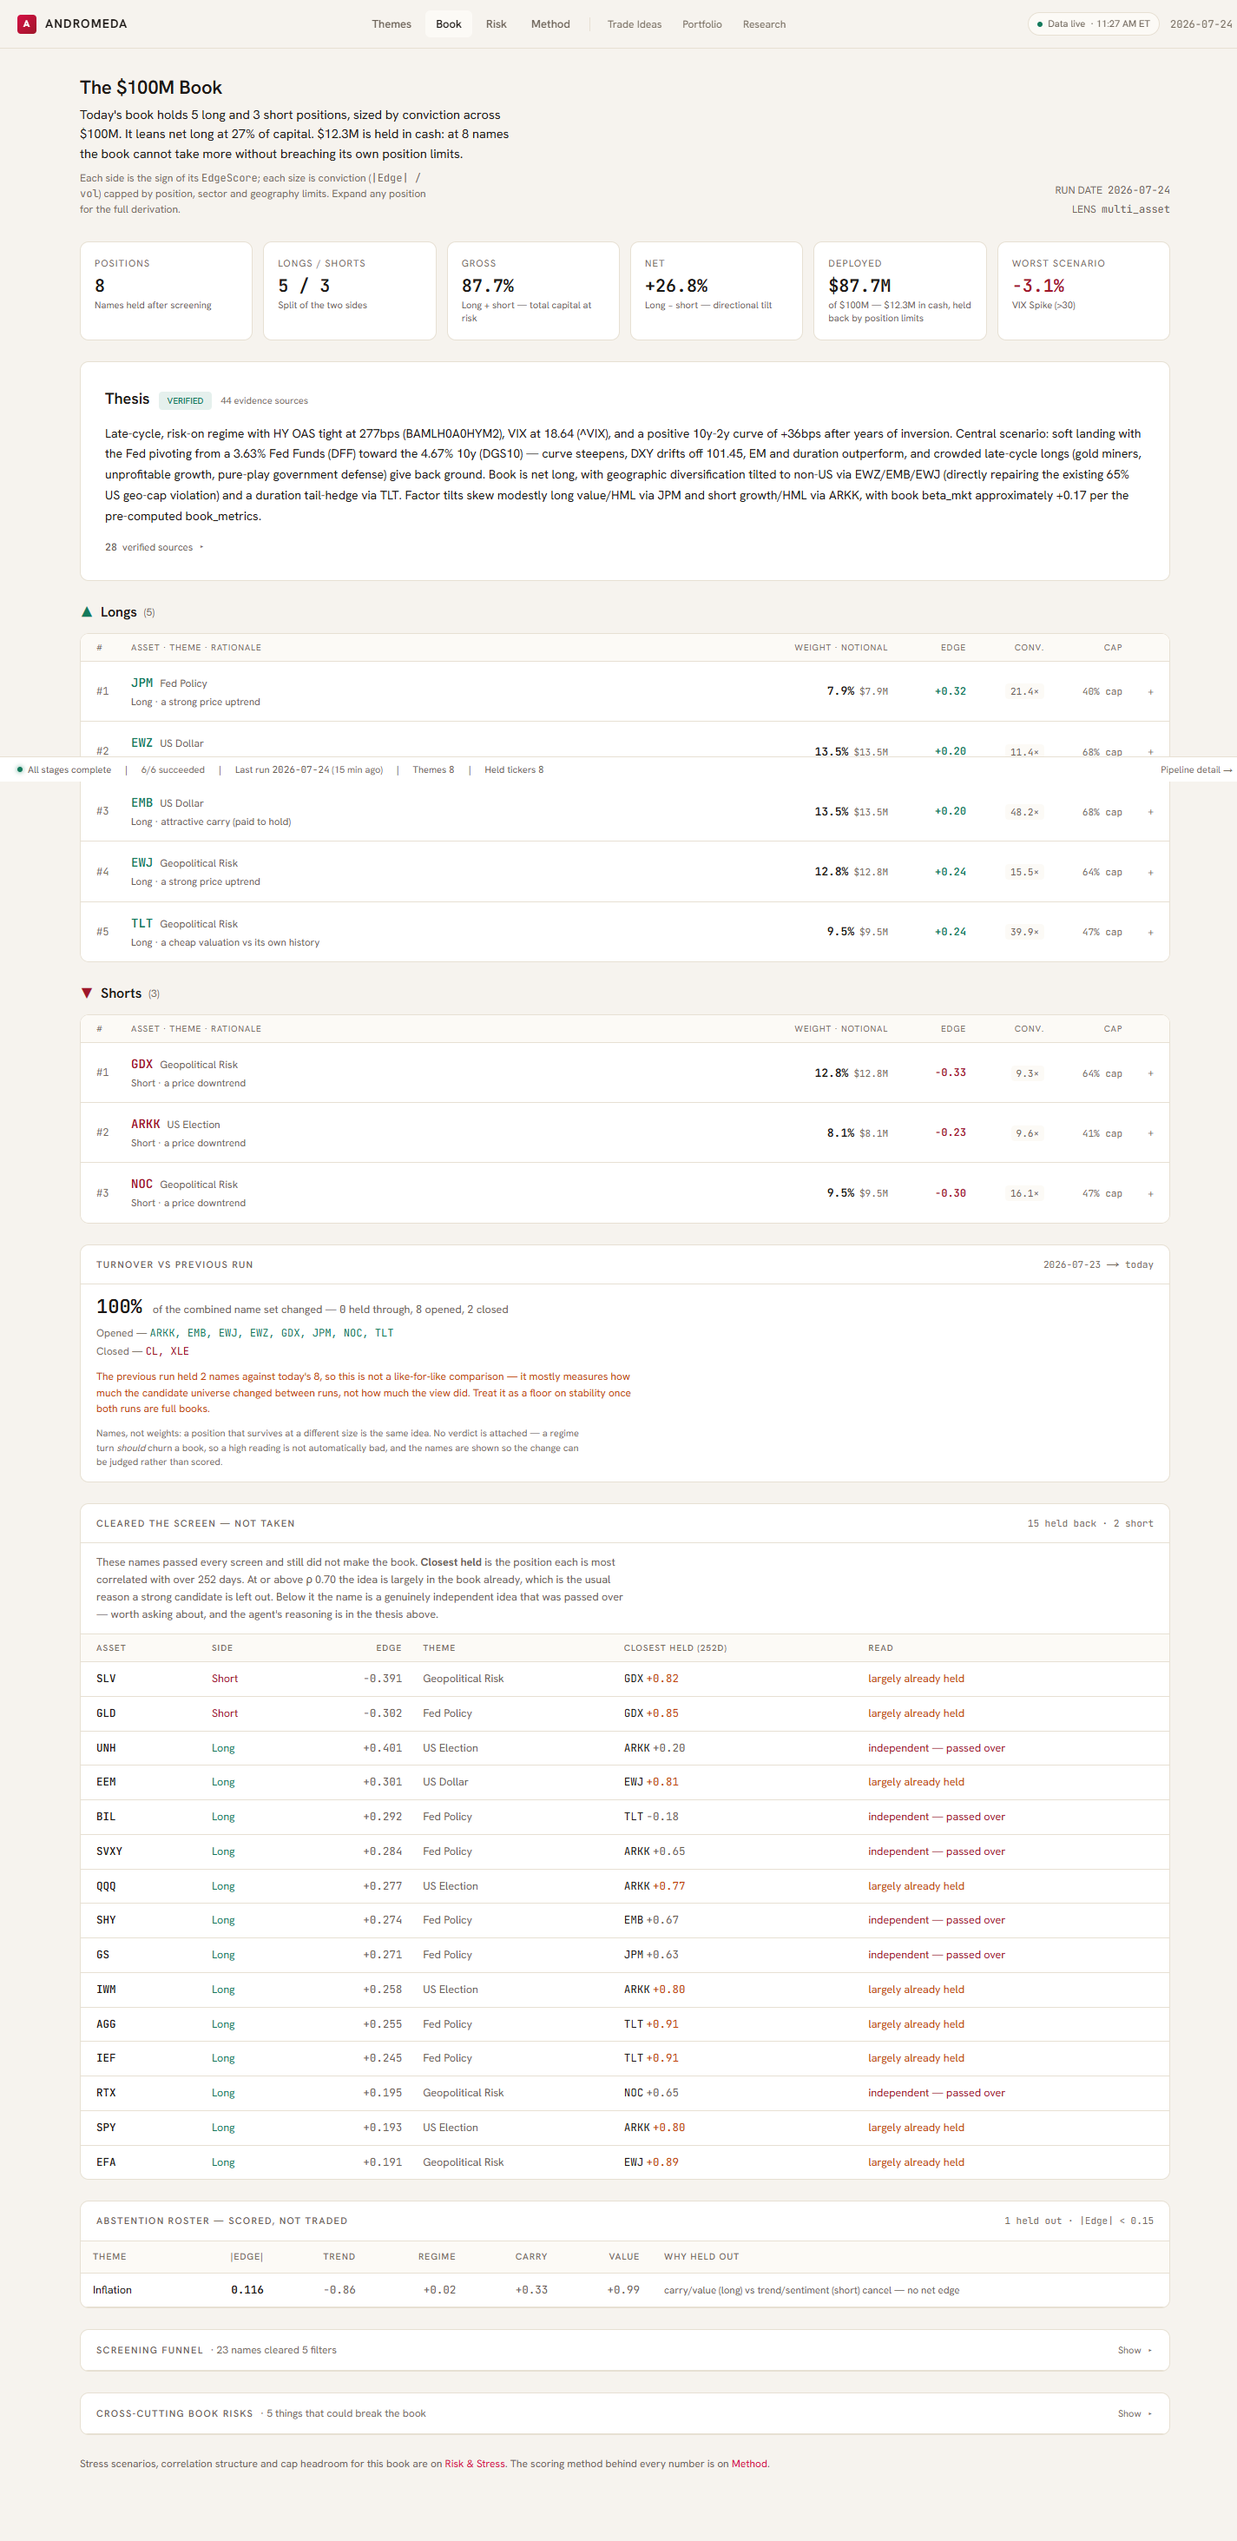
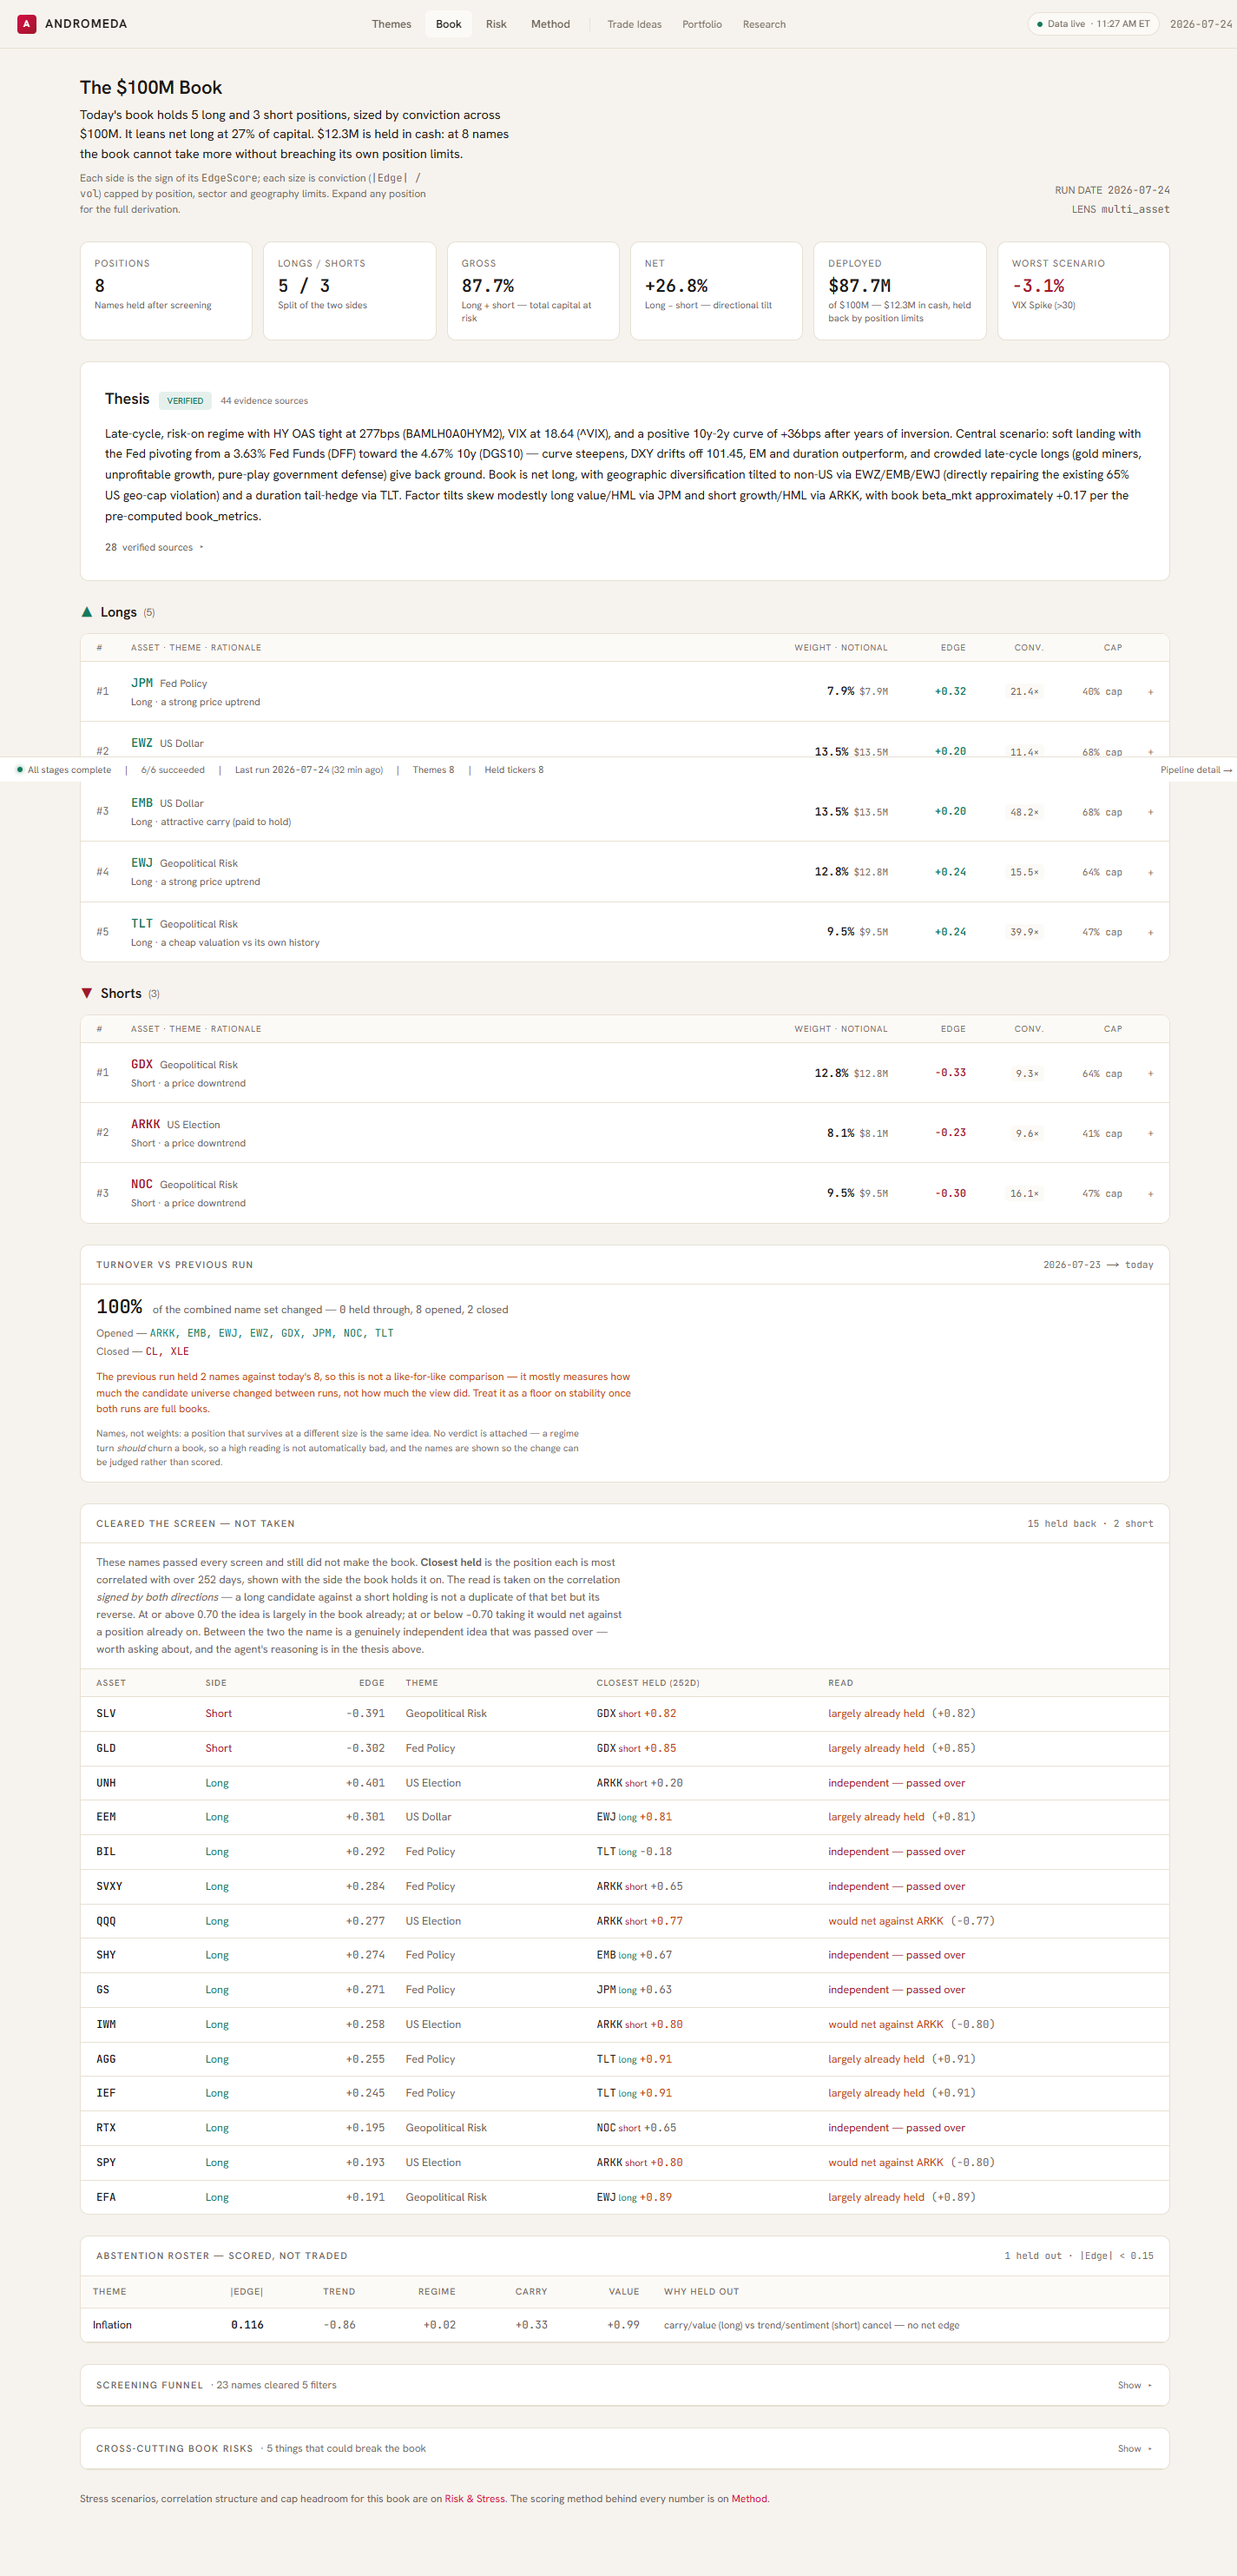
docs: record the inverted overlap column and the /risk mobile clipping
ARCHITECTURE feature checklist and PROGRESS both gain the two defects this
iteration found by reading the deployed page — the direction-blind "largely
already held" label on /book, and /risk cutting off its own utilisation
percentages at 375px. Captures: book-turnover-desktop (both fixes at 1440)
and risk-caps-mobile (the two-column cap row).

diff --git a/PROGRESS.md b/PROGRESS.md
@@ -34,6 +34,8 @@ docs/
 
 | Date | Entry |
 |---|---|
+| 2026-07-24 | **The column that explains omissions was saying the opposite of the truth on three of fifteen rows.** Reading the deployed page after the turnover panel shipped: `ClearedNotTaken` thresholds each candidate against its closest held position on the **raw price correlation**, ignoring which side the book holds it on. The book is **short ARKK**. QQQ (rho +0.77), IWM (+0.80) and SPY (+0.80) are all LONG candidates against it, and every one read *"largely already held"* — a long SPY against a short ARKK is nearer the **reverse** of that bet than a duplicate of it. `classifyOverlap` now signs by both directions before thresholding (`aligned = rho x sign(candidate) x sign(held)`), which also gives the panel a category it could not previously express: **"would net against ARKK"** — a *better* reason to pass a name over than the one the page had been giving. The held side prints beside the ticker now (`GDX short +0.82`), because the same rho reads as a duplicate against one side and a hedge against the other. The backend is deliberately unchanged: `candidate_book_correlation` returns an unsigned price correlation because it is a measurement, and `max|rho|` picks the same holding either way — signing cannot change a magnitude. Its docstring states that contract now. **The same error `abs(corr)` made inside HypeScore and [ADR-0042](docs/adrs/0042-absolute-hype-subscores.md) removed: discarding the sign that decides the meaning.** Found by reading two numbers on one page that could not both be true — no test would have caught it, because the old code computed exactly what it meant to. 462 tests green. [ADR-0045](docs/adrs/0045-turnover-on-names-without-a-verdict.md). |
+| 2026-07-24 | **The 375px pass found `/risk` clipping, not scrolling.** Cards set `overflow-x: hidden`, so anything wider than the card body is cut off **with nothing to reveal it** — strictly worse than a scrollbar, because a scrollbar at least says something is there. **Cap utilisation lost ~76px off its right edge**: its row grid needs 96 + 120 + ~110px plus gaps inside a 260px body, so the `(68%)` utilisation reading — the number that panel exists to show — was simply gone on a phone. Below `sm` the row is now two columns (ticker and numbers on one line, bar full-width beneath) and unchanged at three above; verified at both widths on the deployed site. Two smaller cuts from the same cause: source identifiers like `research_recommendations.correlation_pairs` have no space to break on and now wrap with `overflow-wrap: anywhere`, and `.card-header` gains `flex-wrap` so a long right-hand meta string drops under the title. **Zero page-level horizontal scroll before and after** — this never showed as a scrollbar, only as missing text, which is why an audit checking `scrollWidth > clientWidth` alone would have passed it. `/`, `/book`, `/risk` and `/method` are all clean at 375px and 1440px with zero console errors. |
 | 2026-07-24 | **The site now answers "would you get the same answer tomorrow?" — and the first thing it says is that today's answer is not yet trustworthy.** That question is the first anyone asks of a systematic book and nothing here answered it; the data was always present (`research_recommendations` keeps one row per `run_date`) but no code had ever compared two rows, so it could only be answered by hand-diffing the database. `BookTurnover` measures **names, not weights** — Jaccard distance over the held name sets, union as the denominator so closing a name counts as much as opening one. A position that survives at a different size is the same idea; weight drift is real but folding it in is what makes the primary number unreadable. **No verdict is attached**: a regime turn *should* churn a book, so "low = stable = good" would be a verdict about the market dressed as one about the process. The three lists (held through / opened / closed) are printed so the change can be judged. **The reading today is 100%, and saying only that would have been a lie by omission** — the live book holds 8 names (JPM, EWZ, EMB, EWJ, TLT long; GDX, ARKK, NOC short) and the previous run holds **2** (XLE, CL) from before the universe expanded. `comparabilityCaveat` states the mismatch in warning colour whenever the smaller book is under half the larger: this measures how much the *candidate universe* changed, not how much the *view* did. It will clear itself once two consecutive full runs exist, with no code change. The pure functions live in `frontend/lib/turnover.ts` because the vitest project is `environment: node` with no JSX loader — a function reachable only through a `.tsx` import cannot be tested. 10 tests; `/book` now reads two recommendation rows through a shared `parsePicks()`. [ADR-0045](docs/adrs/0045-turnover-on-names-without-a-verdict.md). |
 | 2026-07-24 | **The reasoning prompt was getting 31 near-identical correlation lines.** Chasing the open Q1 gap — the short side is limited by L5's *selection*, not the universe — I checked what L5 knows when it selects. It **does** receive correlation data (the "choosing blind" hypothesis was wrong), but as one verbose sentence per pair, each ending with the same *"verify this is intentional, not accidental doubling of the same bet"*: **31 of them** on the live 23-name pool. Pairwise is also the wrong shape — nobody reasons about TLT-IEF, TLT-AGG, IEF-AGG and IEF-SHY separately, they reason about **the duration complex**. `correlation_clusters` takes connected components over the positively-correlated pairs, collapsing 31 lines into **four named bets** (`ONE BET: AGG, IEF, SHY, TLT move together — holding several is concentration, not diversification`) plus the strongest pairs for detail. **Inverse pairs are excluded from clusters and reported separately**: a −0.8 correlation is a HEDGE, and folding it into a "these are the same" cluster would invert the meaning — the most damaging thing the section could say; a test pins it. **Not claimed to change the book** — it improves a demonstrably noisy decision input, and whether L5 picks differently is its call, visible in the thesis. Two existing tests asserted exact line counts, pinning the old *shape* rather than the meaning; rewritten to assert properties. 422 tests green. |
 | 2026-07-24 | **The correlation tool disproved the reasoning that motivated it.** The previous entry claimed GDX/GLD being SLV-duplicates was *"exactly why the short side is three independent ideas and not the five Q1 asks for"*. With real correlations rendering, that is wrong: **NOC — a short with edge −0.301 and only +0.20 correlation to anything held — is genuinely INDEPENDENT and was still passed over**, while the book holds just two shorts (ARKK, SLV). **The short side is not capped by redundancy.** Redundancy explains GDX (+0.82) and GLD (+0.84); it does not explain the size of the short side. Why NOC was declined is L5's call, visible in the thesis rather than inferable from the pool, and the panel now says **"independent — passed over"** in red so the case cannot be missed. **Second finding from the same reading:** *"Theme also held?"* read **yes on all sixteen rows** — provably non-discriminating, noise beside a column that separates cleanly — so it is gone along with the `heldThemeIds` prop nothing read. A **Read** column states the consequence instead, thresholded at ρ 0.70, the same `HIGH_CORR_THRESHOLD` `/risk` uses to flag correlated pairs inside the book: one threshold, one meaning. **Every honest measurement this session has cost a claim** — carry's IC, the scenario magnitudes, the theme proxy, and now the short-side ceiling; building the instrument is what makes the earlier assertion checkable. |

diff --git a/ARCHITECTURE.md b/ARCHITECTURE.md
@@ -500,3 +500,5 @@ pytest tests/backend/ -v
 - [x] **Correlation warnings cluster instead of listing every pair** (`correlation_clusters` in `book_metrics.py`) — chasing GOAL.md's open gap (the short side is limited by L5's *selection*, not the universe), I checked what L5 knows when it selects. It **does** receive correlation data — the "choosing blind" hypothesis was wrong — but as **31 near-identical verbose lines** on a 23-name pool, each ending with the same *"verify this is intentional, not accidental doubling of the same bet"*. Pairwise is also the wrong shape: nobody reasons about TLT-IEF, TLT-AGG, IEF-AGG and IEF-SHY separately, they reason about **the duration complex**. Connected components over the positively-correlated pairs turn those 31 lines into four named bets (`ONE BET: AGG, IEF, SHY, TLT …`), plus the strongest pairs for detail. **Inverse pairs are excluded from clusters and reported separately** — a −0.8 correlation is a HEDGE, and folding it into a "these are the same" cluster would invert the meaning; a test pins that. Not claimed to change the book: it improves a demonstrably noisy decision input, and whether L5 selects differently is its call, visible in the thesis.
 - [x] **`/book` says how much of the book changed since the last run** (`frontend/lib/turnover.ts`, `frontend/components/book/BookTurnover.tsx`, [ADR-0045](docs/adrs/0045-turnover-on-names-without-a-verdict.md)) — *"would you get the same answer tomorrow?"* is the first question anyone asks of a systematic book and nothing here answered it. `research_recommendations` has always kept one row per `run_date`; no code had ever compared two. Turnover is **Jaccard distance over the held name sets** — names, not weights, because a position that survives at a different size is the same idea — with the **union** as denominator so a closed name counts as much as an opened one. **No verdict is attached**: a regime turn *should* churn a book, so "low = stable = good" would be a verdict about the market dressed as one about the process; the held-through / opened / closed lists are printed so a reader judges the change. **Today the reading is 100% and the panel says why that is not meaningful** — the live book holds 8 names and the previous run holds 2, from before the universe expanded, so `comparabilityCaveat` states in warning colour that this measures how much the *candidate universe* changed rather than the *view*. It clears itself once two consecutive full runs exist. Nothing renders at all when there is no previous run: an unmeasurable turnover is not zero.
 - [x] **Correction: the book composition quoted in the two `ClearedNotTaken` entries above is superseded** — those describe the 2026-07-23 book (5 long / 3 short with **SLV** short, GDX and GLD *passed over*). The 2026-07-24 book is **JPM, EWZ, EMB, EWJ, TLT long; GDX, ARKK, NOC short** — GDX and NOC, both named there as declined, are now held, and SLV is out. The *reasoning* in those entries stands as the record of why each panel exists; the names in them are a snapshot of the day they were written. The book of record is always `research_recommendations` at the latest `run_date` ([ADR-0040](docs/adrs/0040-published-book-is-the-book-of-record.md)).
+- [x] **"Why isn't X held?" was inverted for three of fifteen rows** (`frontend/lib/candidateOverlap.ts`, [ADR-0045](docs/adrs/0045-turnover-on-names-without-a-verdict.md)) — `ClearedNotTaken` thresholded each candidate against its closest held position on the **raw price correlation**, ignoring which side the book holds. The book is **short ARKK**; QQQ (rho +0.77), IWM (+0.80) and SPY (+0.80) are all LONG candidates, and all three read *"largely already held"* when each is nearer the **reverse** of that bet than a duplicate of it. `classifyOverlap` signs by both directions before thresholding — `aligned = rho x sign(candidate) x sign(held)` — giving the panel a category it could not previously express: **"would net against ARKK"**, which is a better reason to pass a name over than the one the page was giving. The held side now prints beside the ticker (`GDX short +0.82`) because the same rho reads as a duplicate against one side and a hedge against the other. The backend is unchanged by design: `candidate_book_correlation` returns an unsigned price correlation because it is a measurement, and `max|rho|` selects the same holding either way. **Found by reading the deployed page against the book above it** — the old code computed exactly what it meant to compute, so no test would have caught it. 10 tests pin the classifier including the three live rows that were wrong.
+- [x] **`/risk` clipped rather than scrolled on a phone** (`frontend/components/risk/CapUtilisation.tsx`, `SectionGap.tsx`, `globals.css`) — cards set `overflow-x: hidden`, so content wider than the body is cut off **with nothing to reveal it**, which is strictly worse than a scrollbar: nothing signals that anything is missing. Cap utilisation needs 96 + 120 + ~110px plus gaps inside a 260px card body at 375px, so ~76px fell off the right edge — the `(68%)` utilisation reading, the number that panel exists to show. Two columns below `sm` (ticker and numbers on one line, bar full-width beneath), unchanged at three above. Source identifiers wrap with `overflow-wrap: anywhere`; `.card-header` gains `flex-wrap`. Verified at 375px and 1440px: zero page-level horizontal scroll and zero clipped elements on `/`, `/book`, `/risk`, `/method`.
